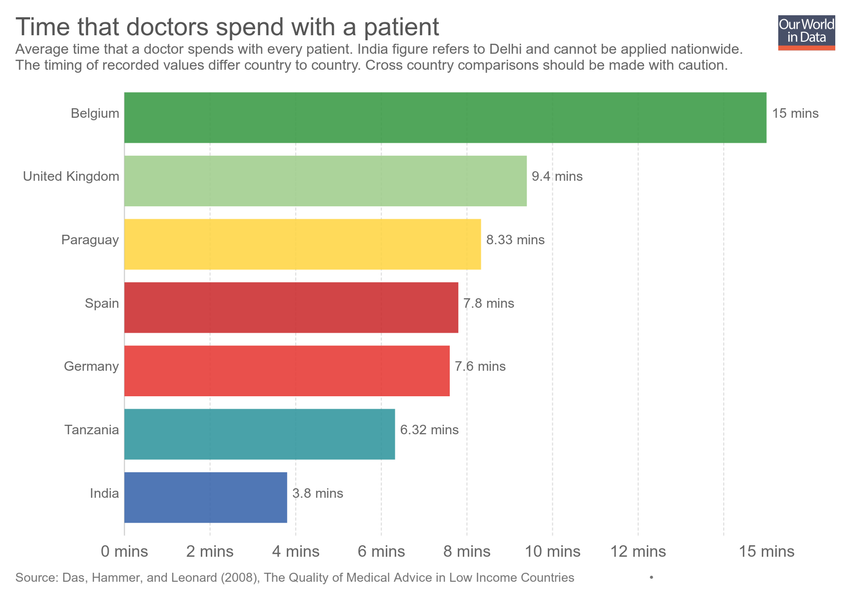
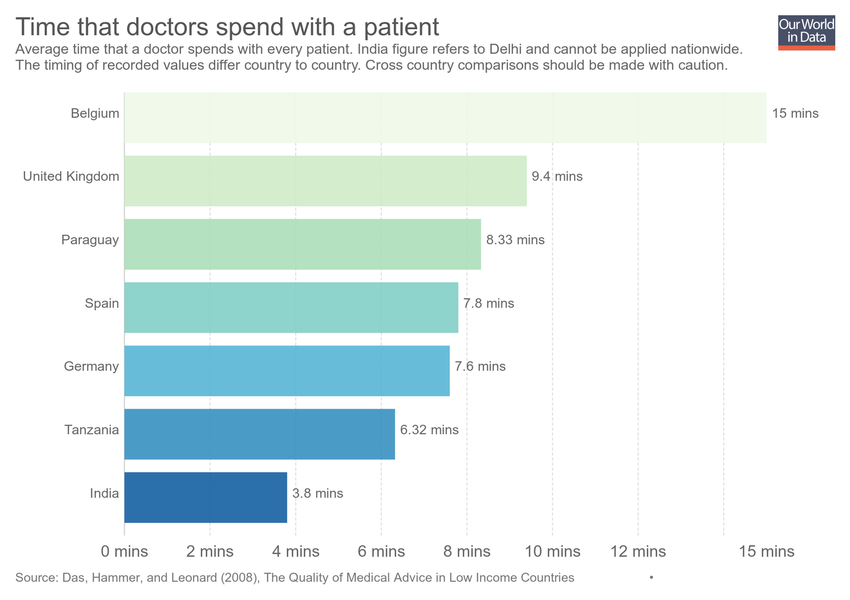
Updating chart time-that-doctors-spend-with-a-patient

Changed region(s): [[0.1224, 0.15, 0.9176, 0.87]]

diff --git a/grapher/child-mortality-sdgs.html b/grapher/child-mortality-sdgs.html
@@ -1,4 +1,4 @@
-<!doctype html><html><head><meta name="viewport" content="width=device-width, initial-scale=1" /><title>Child mortality rate per 1,000 live births - Our World in Data</title><meta name="description" content="Under-five mortality rate is the probability per 1,000 that a newborn baby will die before reaching age five, if subject to age-specific mortality rates of the specified year. SDG Target 3.1 is to reduce child mortality to at least as low as 25 per 1,000 live births by 2030." /><link rel="canonical" href="https://ourworldindata.org/grapher/child-mortality-sdgs" /><meta property="fb:app_id" content="1149943818390250" /><meta property="og:url" content="https://ourworldindata.org/grapher/child-mortality-sdgs" /><meta property="og:title" content="Child mortality rate per 1,000 live births" /><meta property="og:description" content="Under-five mortality rate is the probability per 1,000 that a newborn baby will die before reaching age five, if subject to age-specific mortality rates of the specified year. SDG Target 3.1 is to reduce child mortality to at least as low as 25 per 1,000 live births by 2030." /><meta property="og:image" content="https://ourworldindata.org/grapher/exports/child-mortality-sdgs.png?v=3" /><meta property="og:image:width" content="850" /><meta property="og:image:height" content="600" /><meta property="og:site_name" content="Our World in Data" /><meta name="twitter:card" content="summary_large_image" /><meta name="twitter:site" content="@OurWorldInData" /><meta name="twitter:creator" content="@OurWorldInData" /><meta name="twitter:title" content="Child mortality rate per 1,000 live births" /><meta name="twitter:description" content="Under-five mortality rate is the probability per 1,000 that a newborn baby will die before reaching age five, if subject to age-specific mortality rates of the specified year. SDG Target 3.1 is to reduce child mortality to at least as low as 25 per 1,000 live births by 2030." /><meta name="twitter:image" content="https://ourworldindata.org/grapher/exports/child-mortality-sdgs.png?v=3" /><style>
+<!doctype html><html><head><meta name="viewport" content="width=device-width, initial-scale=1" /><title>Child mortality, historic and projections - Our World in Data</title><meta name="description" content="Under-five mortality rate is the probability per 1,000 that a newborn baby will die before reaching age five, if subject to age-specific mortality rates of the specified year. National projections through to 2030 are also shown. SDG Target 3.2 is to reduce under‑5 mortality to at least as low as 25 per 1,000 live births." /><link rel="canonical" href="https://ourworldindata.org/grapher/child-mortality-sdgs" /><meta property="fb:app_id" content="1149943818390250" /><meta property="og:url" content="https://ourworldindata.org/grapher/child-mortality-sdgs" /><meta property="og:title" content="Child mortality, historic and projections" /><meta property="og:description" content="Under-five mortality rate is the probability per 1,000 that a newborn baby will die before reaching age five, if subject to age-specific mortality rates of the specified year. National projections through to 2030 are also shown. SDG Target 3.2 is to reduce under‑5 mortality to at least as low as 25 per 1,000 live births." /><meta property="og:image" content="https://ourworldindata.org/grapher/exports/child-mortality-sdgs.png?v=1" /><meta property="og:image:width" content="850" /><meta property="og:image:height" content="600" /><meta property="og:site_name" content="Our World in Data" /><meta name="twitter:card" content="summary_large_image" /><meta name="twitter:site" content="@OurWorldInData" /><meta name="twitter:creator" content="@OurWorldInData" /><meta name="twitter:title" content="Child mortality, historic and projections" /><meta name="twitter:description" content="Under-five mortality rate is the probability per 1,000 that a newborn baby will die before reaching age five, if subject to age-specific mortality rates of the specified year. National projections through to 2030 are also shown. SDG Target 3.2 is to reduce under‑5 mortality to at least as low as 25 per 1,000 live births." /><meta name="twitter:image" content="https://ourworldindata.org/grapher/exports/child-mortality-sdgs.png?v=1" /><style>
         html, body {
             height: 100%;
             margin: 0;
@@ -20,8 +20,8 @@
         }
     </style><noscript><style>
                     figure { display: none !important; }
-                </style></noscript><link rel="stylesheet" href="https://ourworldindata.org/grapher/assets/commons.bundle.dcbbe53805c487d5e57617b10ac73a8a.css" /><link rel="preload" href="/grapher/data/variables/3398.json?v=3" as="fetch" crossorigin /></head><body class="singleChart"><figure data-grapher-src="/grapher/child-mortality-sdgs"></figure><noscript id="fallback"><img src="/grapher/exports/child-mortality-sdgs.svg" /><p>Interactive visualization requires JavaScript</p></noscript><script src="https://cdn.polyfill.io/v2/polyfill.min.js?features=es6,fetch"></script><script src="https://ourworldindata.org/grapher/assets/commons.bundle.db4e4065dcbf33bcd3d7.js"></script><script src="https://ourworldindata.org/grapher/assets/charts.bundle.db4e4065dcbf33bcd3d7.js"></script><script>
-        var jsonConfig = {"id":2653,"map":{"projection":"World","targetYear":2015,"variableId":3398,"equalSizeBins":true,"baseColorScheme":"YlOrRd","isManualBuckets":true,"colorSchemeLabels":["Target reached","1.5x target","2x target","3x target","4x target","5x target",null],"colorSchemeValues":[25.1,37.5,50,75,100,125],"customColorsActive":true,"customNumericColors":["#9ecc8a",null,null,null,null,null],"customCategoryColors":{},"customCategoryLabels":{},"customHiddenCategories":{}},"tab":"map","slug":"child-mortality-sdgs","type":"LineChart","title":"Child mortality rate per 1,000 live births","xAxis":{"scaleType":"linear"},"yAxis":{"min":0,"scaleType":"linear"},"version":3,"subtitle":"Under-five mortality rate is the probability per 1,000 that a newborn baby will die before reaching age five, if subject to age-specific mortality rates of the specified year. SDG Target 3.1 is to reduce child mortality to at least as low as 25 per 1,000 live births by 2030.","hasMapTab":true,"stackMode":"absolute","dimensions":[{"display":{"unit":"deaths per 1,000 live births","conversionFactor":1},"property":"y","variableId":3398}],"hasChartTab":true,"isPublished":true,"selectedData":[{"index":0,"entityId":355},{"index":0,"entityId":137},{"index":0,"entityId":37},{"index":0,"entityId":60},{"index":0,"entityId":78},{"index":0,"entityId":28}],"internalNotes":"For SDG Tracker","addCountryMode":"add-country","comparisonLine":{"label":"SDG Target 3.1 (25 per 1,000)","yEquals":"25"}};
+                </style></noscript><link rel="stylesheet" href="https://ourworldindata.org/grapher/assets/commons.bundle.dcbbe53805c487d5e57617b10ac73a8a.css" /><link rel="preload" href="/grapher/data/variables/96524+96525.json?v=1" as="fetch" crossorigin /></head><body class="singleChart"><figure data-grapher-src="/grapher/child-mortality-sdgs"></figure><noscript id="fallback"><img src="/grapher/exports/child-mortality-sdgs.svg" /><p>Interactive visualization requires JavaScript</p></noscript><script src="https://cdn.polyfill.io/v2/polyfill.min.js?features=es6,fetch"></script><script src="https://ourworldindata.org/grapher/assets/commons.bundle.db4e4065dcbf33bcd3d7.js"></script><script src="https://ourworldindata.org/grapher/assets/charts.bundle.db4e4065dcbf33bcd3d7.js"></script><script>
+        var jsonConfig = {"map":{"projection":"World","targetYear":2030,"variableId":96525,"equalSizeBins":true,"isManualBuckets":true,"colorSchemeLabels":["Target met","Still to meet"],"colorSchemeValues":[26,1000],"customColorsActive":true,"colorSchemeMinValue":0,"customNumericColors":["#2a939b","#ca2628"],"customCategoryColors":{},"customCategoryLabels":{},"customHiddenCategories":{}},"tab":"chart","slug":"child-mortality-sdgs","type":"LineChart","title":"Child mortality, historic and projections","xAxis":{"scaleType":"linear"},"yAxis":{"min":0,"scaleType":"linear"},"version":1,"subtitle":"Under-five mortality rate is the probability per 1,000 that a newborn baby will die before reaching age five, if subject to age-specific mortality rates of the specified year. National projections through to 2030 are also shown. SDG Target 3.2 is to reduce under‑5 mortality to at least as low as 25 per 1,000 live births.","hasMapTab":true,"stackMode":"absolute","dimensions":[{"display":{"name":"Historic trend to date","numDecimalPlaces":0},"property":"y","variableId":96524},{"display":{"name":"Current projections to 2030","numDecimalPlaces":0},"property":"y","variableId":96525}],"sourceDesc":"Institute of Health Metrics & Evaluation (IHME)","hasChartTab":true,"isPublished":true,"selectedData":[{"index":0,"entityId":171},{"index":1,"entityId":171}],"addCountryMode":"change-country","id":2518};
         var figure = document.getElementsByTagName("figure")[0];
         try {
             window.App = {};

diff --git a/grapher/time-that-doctors-spend-with-a-patient.html b/grapher/time-that-doctors-spend-with-a-patient.html
@@ -1,4 +1,4 @@
-<!doctype html><html><head><meta name="viewport" content="width=device-width, initial-scale=1" /><title>Time that doctors spend with a patient - Our World in Data</title><meta name="description" content="Average time that a doctor spends with every patient. India figure refers to Delhi and cannot be applied nationwide. The timing of recorded values differ country to country. Cross country comparisons should be made with caution." /><link rel="canonical" href="https://ourworldindata.org/grapher/time-that-doctors-spend-with-a-patient" /><meta property="fb:app_id" content="1149943818390250" /><meta property="og:url" content="https://ourworldindata.org/grapher/time-that-doctors-spend-with-a-patient" /><meta property="og:title" content="Time that doctors spend with a patient" /><meta property="og:description" content="Average time that a doctor spends with every patient. India figure refers to Delhi and cannot be applied nationwide. The timing of recorded values differ country to country. Cross country comparisons should be made with caution." /><meta property="og:image" content="https://ourworldindata.org/grapher/exports/time-that-doctors-spend-with-a-patient.png?v=3" /><meta property="og:image:width" content="850" /><meta property="og:image:height" content="600" /><meta property="og:site_name" content="Our World in Data" /><meta name="twitter:card" content="summary_large_image" /><meta name="twitter:site" content="@OurWorldInData" /><meta name="twitter:creator" content="@OurWorldInData" /><meta name="twitter:title" content="Time that doctors spend with a patient" /><meta name="twitter:description" content="Average time that a doctor spends with every patient. India figure refers to Delhi and cannot be applied nationwide. The timing of recorded values differ country to country. Cross country comparisons should be made with caution." /><meta name="twitter:image" content="https://ourworldindata.org/grapher/exports/time-that-doctors-spend-with-a-patient.png?v=3" /><style>
+<!doctype html><html><head><meta name="viewport" content="width=device-width, initial-scale=1" /><title>Time that doctors spend with a patient - Our World in Data</title><meta name="description" content="Average time that a doctor spends with every patient. India figure refers to Delhi and cannot be applied nationwide. The timing of recorded values differ country to country. Cross country comparisons should be made with caution." /><link rel="canonical" href="https://ourworldindata.org/grapher/time-that-doctors-spend-with-a-patient" /><meta property="fb:app_id" content="1149943818390250" /><meta property="og:url" content="https://ourworldindata.org/grapher/time-that-doctors-spend-with-a-patient" /><meta property="og:title" content="Time that doctors spend with a patient" /><meta property="og:description" content="Average time that a doctor spends with every patient. India figure refers to Delhi and cannot be applied nationwide. The timing of recorded values differ country to country. Cross country comparisons should be made with caution." /><meta property="og:image" content="https://ourworldindata.org/grapher/exports/time-that-doctors-spend-with-a-patient.png?v=4" /><meta property="og:image:width" content="850" /><meta property="og:image:height" content="600" /><meta property="og:site_name" content="Our World in Data" /><meta name="twitter:card" content="summary_large_image" /><meta name="twitter:site" content="@OurWorldInData" /><meta name="twitter:creator" content="@OurWorldInData" /><meta name="twitter:title" content="Time that doctors spend with a patient" /><meta name="twitter:description" content="Average time that a doctor spends with every patient. India figure refers to Delhi and cannot be applied nationwide. The timing of recorded values differ country to country. Cross country comparisons should be made with caution." /><meta name="twitter:image" content="https://ourworldindata.org/grapher/exports/time-that-doctors-spend-with-a-patient.png?v=4" /><style>
         html, body {
             height: 100%;
             margin: 0;
@@ -20,8 +20,8 @@
         }
     </style><noscript><style>
                     figure { display: none !important; }
-                </style></noscript><link rel="stylesheet" href="https://ourworldindata.org/grapher/assets/commons.bundle.dcbbe53805c487d5e57617b10ac73a8a.css" /><link rel="preload" href="/grapher/data/variables/97482.json?v=3" as="fetch" crossorigin /></head><body class="singleChart"><figure data-grapher-src="/grapher/time-that-doctors-spend-with-a-patient"></figure><noscript id="fallback"><img src="/grapher/exports/time-that-doctors-spend-with-a-patient.svg" /><p>Interactive visualization requires JavaScript</p></noscript><script src="https://cdn.polyfill.io/v2/polyfill.min.js?features=es6,fetch"></script><script src="https://ourworldindata.org/grapher/assets/commons.bundle.db4e4065dcbf33bcd3d7.js"></script><script src="https://ourworldindata.org/grapher/assets/charts.bundle.db4e4065dcbf33bcd3d7.js"></script><script>
-        var jsonConfig = {"id":2686,"map":{"projection":"World","colorSchemeLabels":[],"colorSchemeValues":[],"customNumericColors":[],"customCategoryColors":{},"customCategoryLabels":{},"customHiddenCategories":{}},"tab":"chart","slug":"time-that-doctors-spend-with-a-patient","type":"DiscreteBar","title":"Time that doctors spend with a patient","xAxis":{"scaleType":"linear"},"yAxis":{"min":0,"scaleType":"linear"},"version":3,"subtitle":"Average time that a doctor spends with every patient. India figure refers to Delhi and cannot be applied nationwide. The timing of recorded values differ country to country. Cross country comparisons should be made with caution.","hasMapTab":false,"stackMode":"absolute","dimensions":[{"display":{"shortUnit":"mins"},"property":"y","variableId":97482}],"hasChartTab":true,"isPublished":true,"selectedData":[{"index":0,"entityId":4},{"index":0,"entityId":6},{"index":0,"entityId":137},{"index":0,"entityId":98},{"index":0,"entityId":9},{"index":0,"entityId":64},{"index":0,"entityId":1}],"addCountryMode":"add-country","baseColorScheme":"stackedAreaDefault","hideTitleAnnotation":true};
+                </style></noscript><link rel="stylesheet" href="https://ourworldindata.org/grapher/assets/commons.bundle.dcbbe53805c487d5e57617b10ac73a8a.css" /><link rel="preload" href="/grapher/data/variables/97482.json?v=4" as="fetch" crossorigin /></head><body class="singleChart"><figure data-grapher-src="/grapher/time-that-doctors-spend-with-a-patient"></figure><noscript id="fallback"><img src="/grapher/exports/time-that-doctors-spend-with-a-patient.svg" /><p>Interactive visualization requires JavaScript</p></noscript><script src="https://cdn.polyfill.io/v2/polyfill.min.js?features=es6,fetch"></script><script src="https://ourworldindata.org/grapher/assets/commons.bundle.db4e4065dcbf33bcd3d7.js"></script><script src="https://ourworldindata.org/grapher/assets/charts.bundle.db4e4065dcbf33bcd3d7.js"></script><script>
+        var jsonConfig = {"id":2686,"map":{"projection":"World","colorSchemeLabels":[],"colorSchemeValues":[],"customNumericColors":[],"customCategoryColors":{},"customCategoryLabels":{},"customHiddenCategories":{}},"tab":"chart","slug":"time-that-doctors-spend-with-a-patient","type":"DiscreteBar","title":"Time that doctors spend with a patient","xAxis":{"scaleType":"linear"},"yAxis":{"min":0,"scaleType":"linear"},"version":4,"subtitle":"Average time that a doctor spends with every patient. India figure refers to Delhi and cannot be applied nationwide. The timing of recorded values differ country to country. Cross country comparisons should be made with caution.","hasMapTab":false,"stackMode":"absolute","dimensions":[{"display":{"shortUnit":"mins"},"property":"y","variableId":97482}],"hasChartTab":true,"isPublished":true,"selectedData":[{"index":0,"entityId":4},{"index":0,"entityId":6},{"index":0,"entityId":137},{"index":0,"entityId":98},{"index":0,"entityId":9},{"index":0,"entityId":64},{"index":0,"entityId":1}],"addCountryMode":"add-country","baseColorScheme":"GnBu","invertColorScheme":true,"hideTitleAnnotation":true};
         var figure = document.getElementsByTagName("figure")[0];
         try {
             window.App = {};
